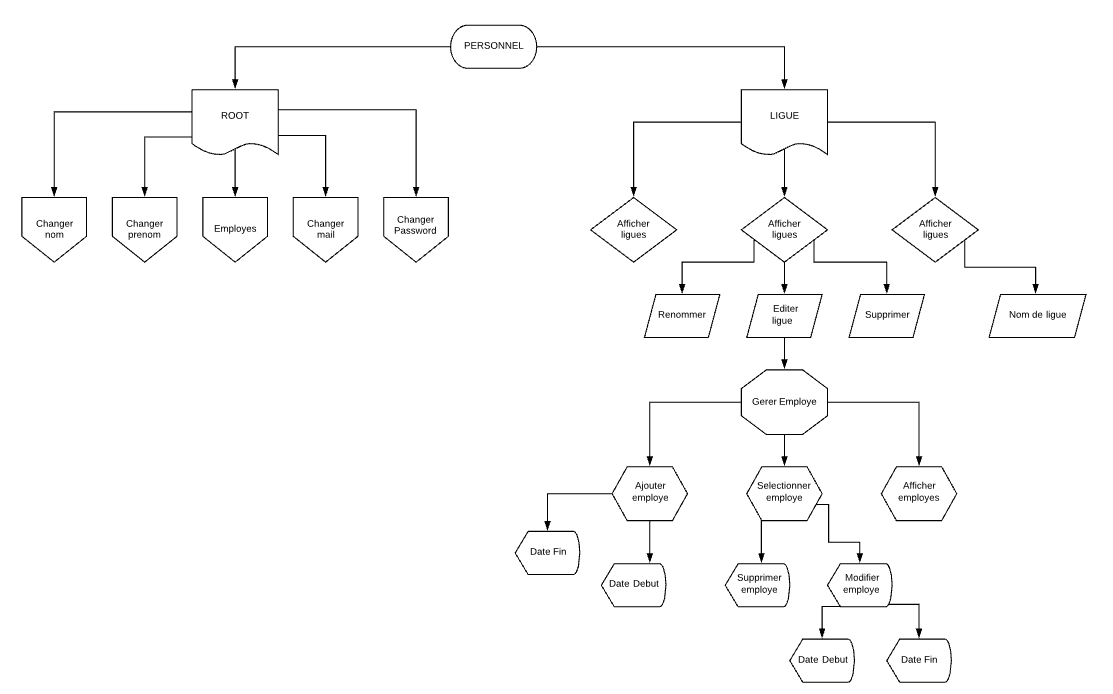
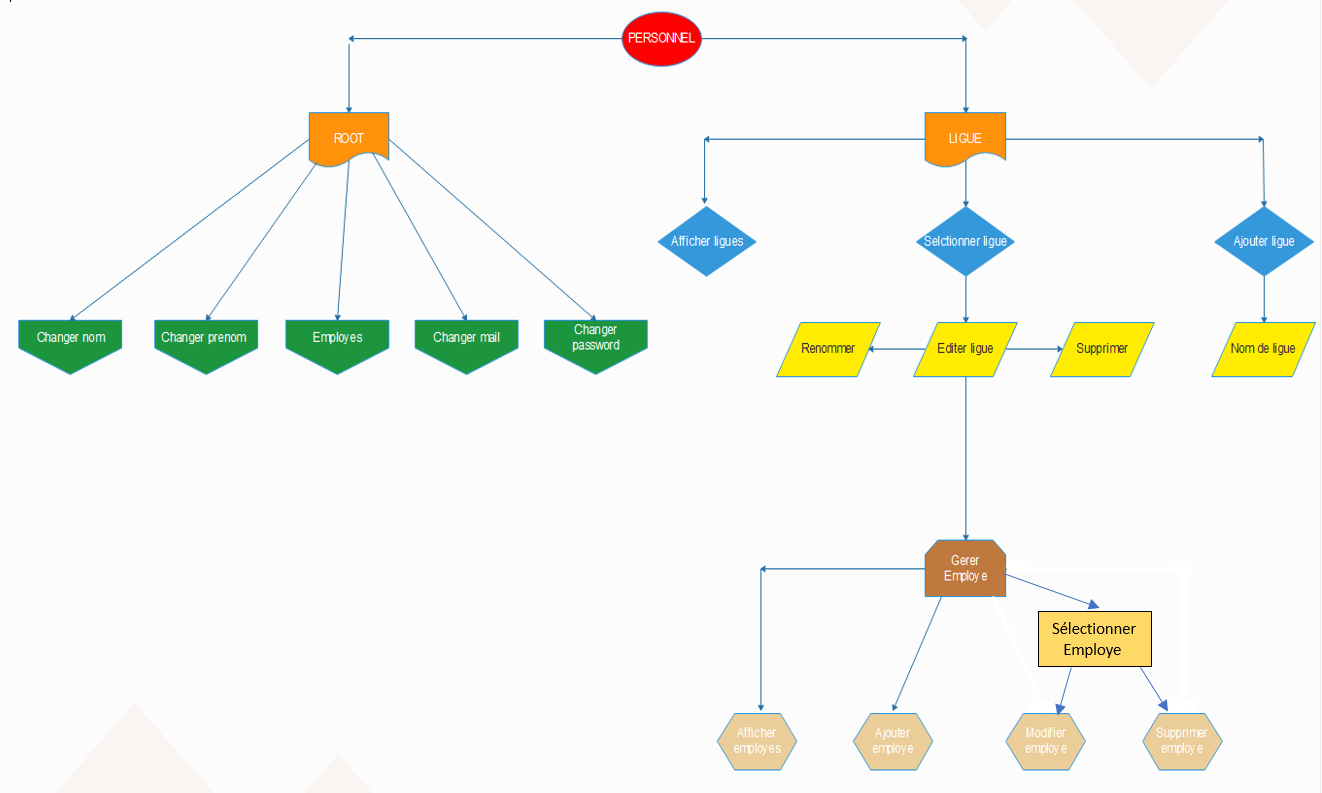
Menus Personnel new

diff --git a/Personnel/src/commandLine/EmployeConsole.java b/Personnel/src/commandLine/EmployeConsole.java
@@ -1,7 +1,9 @@
 package commandLine;
 
+import static commandLineMenus.rendering.examples.util.InOut.getInt;
 import static commandLineMenus.rendering.examples.util.InOut.getString;
 
+import java.time.LocalDate;
 
 import commandLineMenus.Menu;
 import commandLineMenus.Option;
@@ -24,6 +26,8 @@ public class EmployeConsole
 		menu.add(changerPrenom(employe));
 		menu.add(changerMail(employe));
 		menu.add(changerPassword(employe));
+		menu.add(changerDateDebut(employe));
+		menu.add(changerDateFin(employe));
 		menu.addBack("q");
 		return menu;
 	}
@@ -50,5 +54,23 @@ public class EmployeConsole
 		return new Option("Changer le password", "x", () -> {employe.setPassword(getString("Nouveau password : "));});
 	}
 	
+	private Option changerDateDebut(final Employe employe)
+	{
+		return new Option("Changer la date de Debut", "D", () -> {employe.setDateDebut(getDate());});
+	}
+	
+	private Option changerDateFin(final Employe employe)
+	{
+		return new Option("Changer la date de Fin", "F", () -> {employe.setDateFin(getDate());});
+	}
+	private LocalDate  getDate() {
+		int year,month,day;
+		year = getInt("  Annee (yyyy) : ");
+		month= getInt("  Mois (mm) : ");
+		day = getInt("  Jour (jj) : ");
+		
+		LocalDate date = LocalDate.of(year, month, day);
+		return date;
+	}
 
 }
